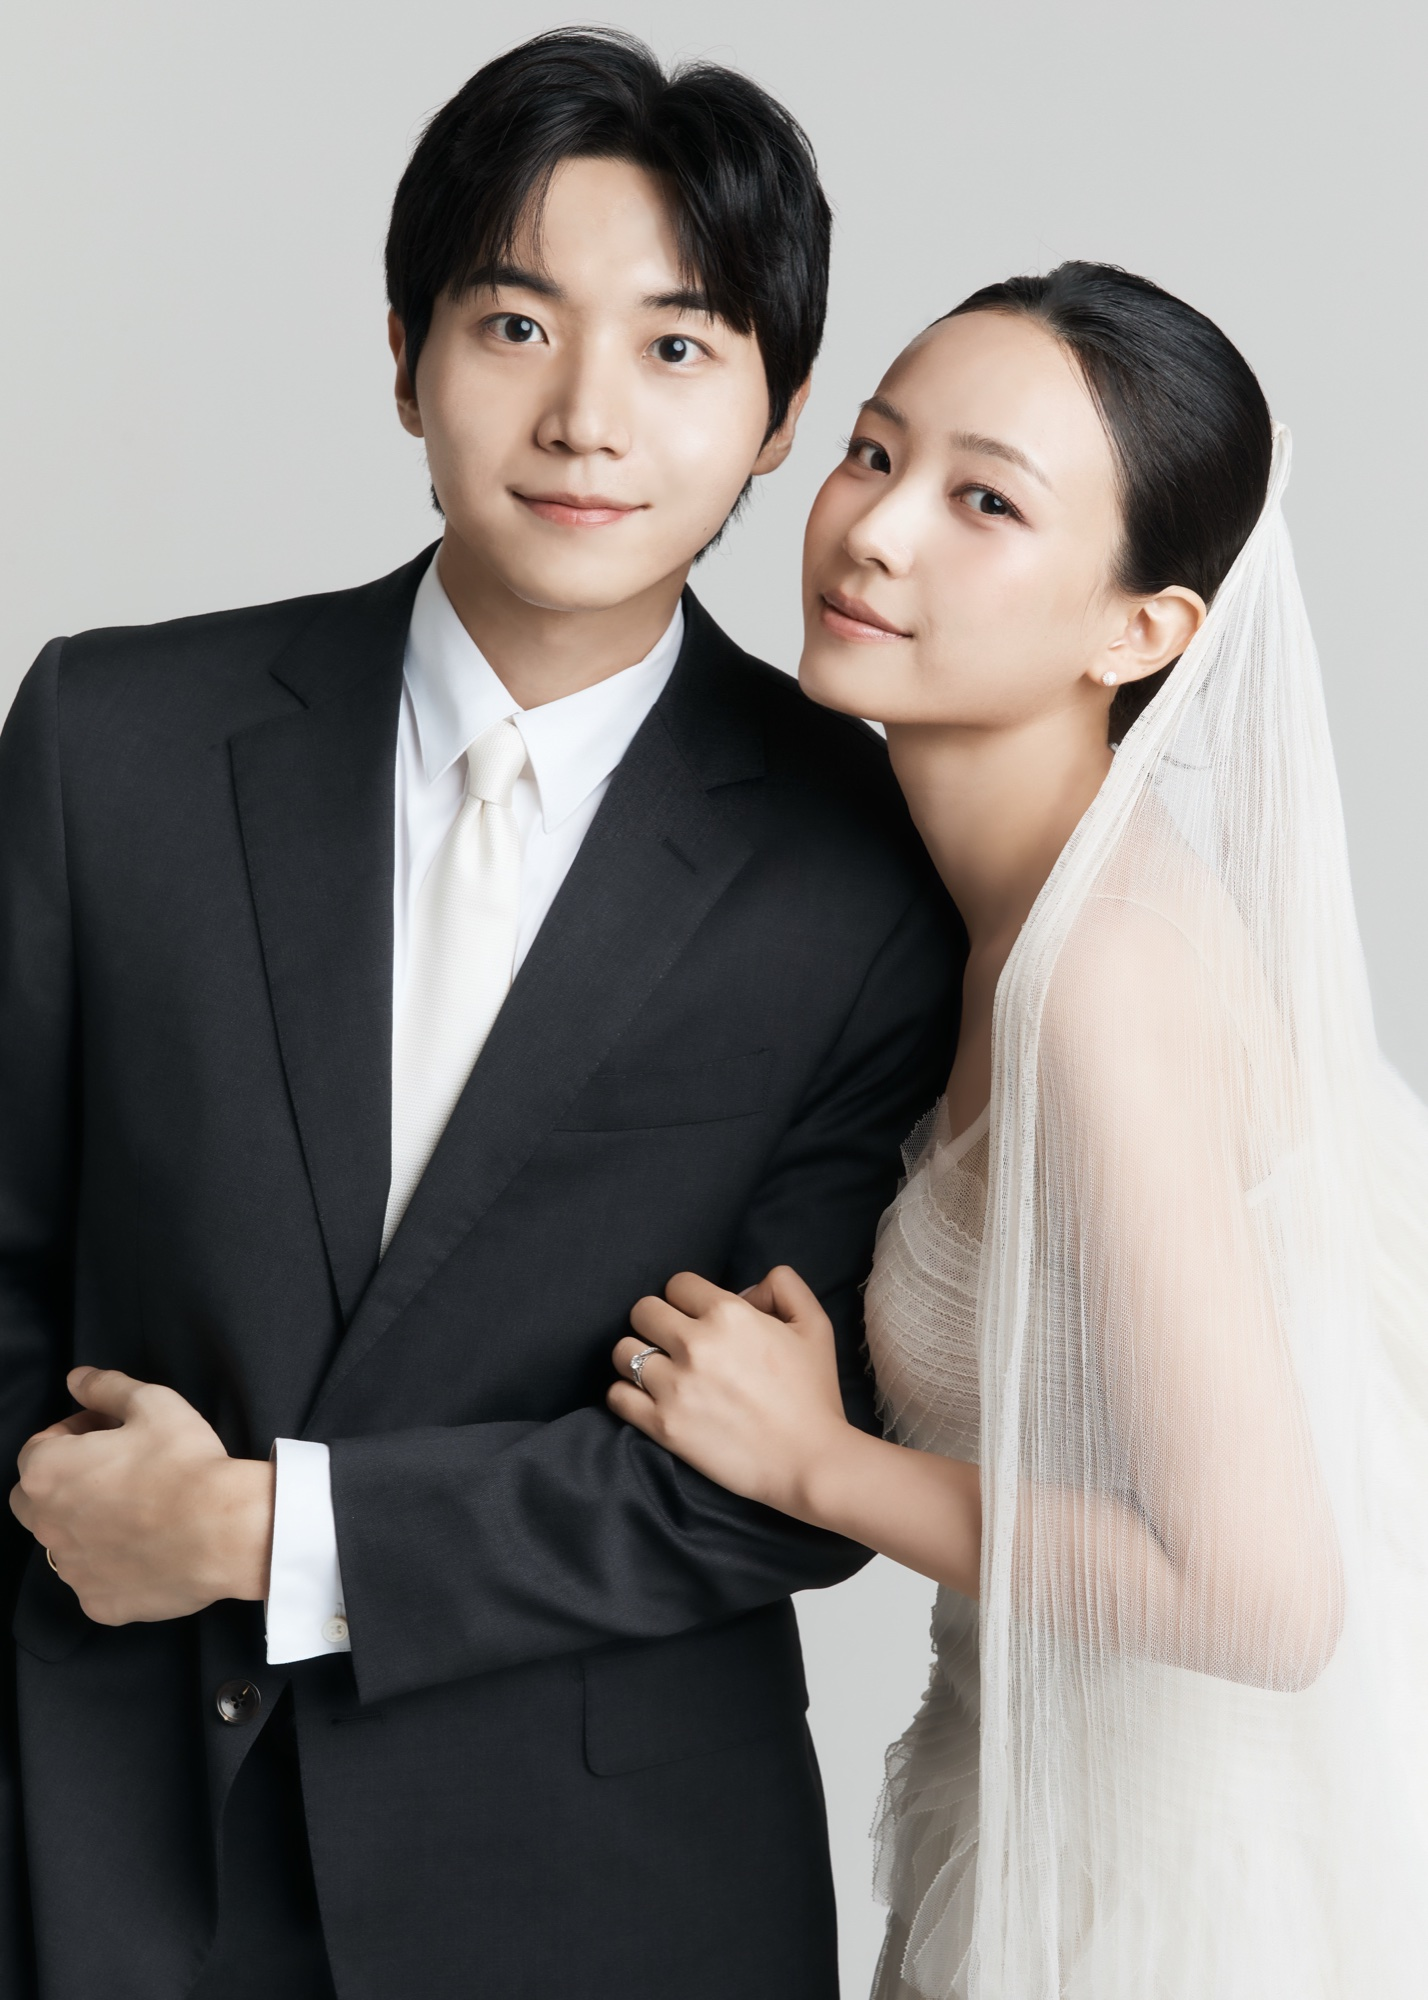
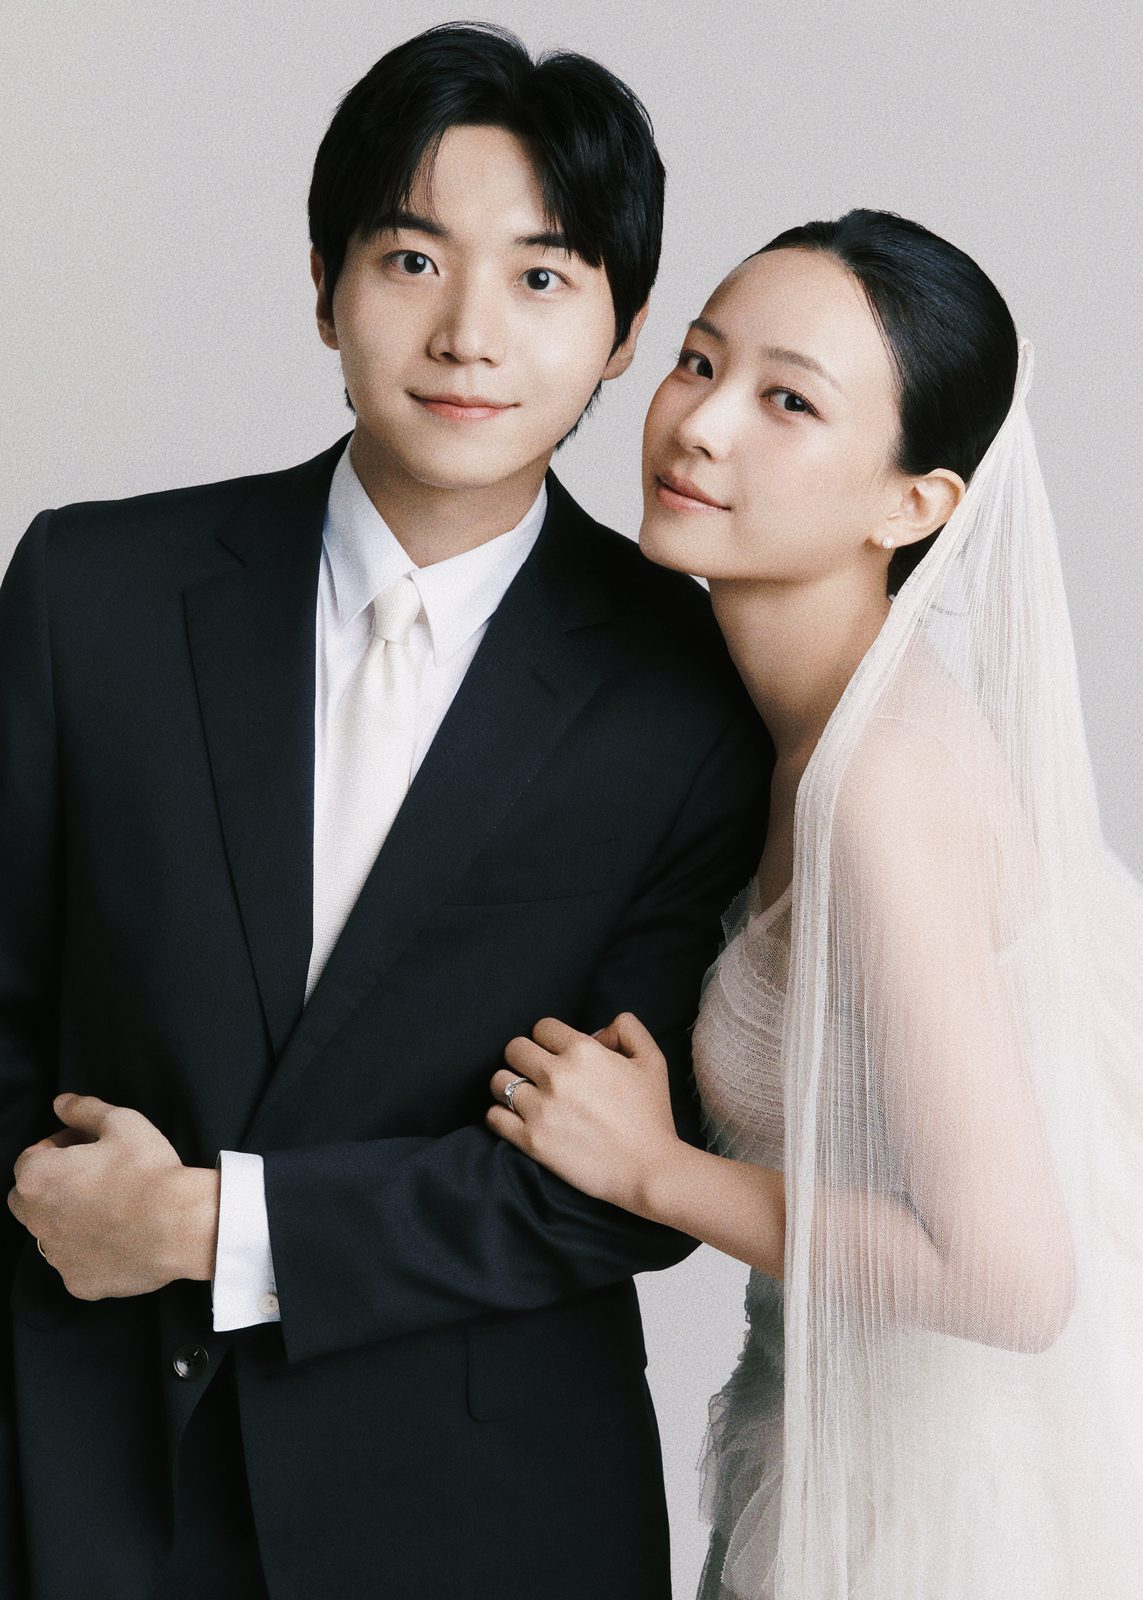
.

diff --git a/index.html b/index.html
@@ -78,11 +78,11 @@
         <p class="v5-save-venue">삼청각 일화당</p>
       </section>
 
-      <section class="v5-mail" aria-hidden="true">
+      <section class="v5-mail">
         <div class="v5-mail-stage">
-          <div class="v5-photostrip">
+          <button class="v5-photostrip" type="button" id="v5-photostrip-open" aria-label="포토스트립 크게 보기">
             <img src="assets/v5-photostrip.png" alt="We're getting Married!!!" width="1024" height="830" decoding="async">
-          </div>
+          </button>
           <img class="v5-envelope" src="assets/v5-envelope.png" alt="" width="752" height="782" decoding="async">
         </div>
       </section>
@@ -104,10 +104,12 @@
       <section class="v5-people" id="v5-family">
         <article class="v5-person">
           <figure class="v5-polaroid">
-            <span class="v5-polaroid-frame">
-              <img class="v5-polaroid-photo" src="assets/v3-family-sangwon.png" alt="상원 어릴 적 사진" width="800" height="1000" decoding="async">
-              <img class="v5-polaroid-border" src="assets/v5-polaroid-frame.png" alt="" width="970" height="687" decoding="async">
-            </span>
+            <button class="v5-polaroid-open" type="button" aria-label="상원 어릴 적 사진 크게 보기">
+              <span class="v5-polaroid-frame">
+                <img class="v5-polaroid-photo" src="assets/v3-family-sangwon.png" alt="상원 어릴 적 사진" width="800" height="1000" decoding="async">
+                <img class="v5-polaroid-border" src="assets/v5-polaroid-frame.png" alt="" width="970" height="687" decoding="async">
+              </span>
+            </button>
           </figure>
           <div class="v5-bubble v5-bubble--img">
             <img class="v5-bubble-img" src="assets/v5-bubble-sangwon.png?v=5" alt="지현호 · 김윤정의 아들 지상원" width="1024" height="272" decoding="async">
@@ -116,10 +118,12 @@
 
         <article class="v5-person">
           <figure class="v5-polaroid">
-            <span class="v5-polaroid-frame">
-              <img class="v5-polaroid-photo" src="assets/v5-family-soyeon.jpg" alt="소연 어릴 적 사진" width="1024" height="768" decoding="async">
-              <img class="v5-polaroid-border" src="assets/v5-polaroid-frame.png" alt="" width="970" height="687" decoding="async">
-            </span>
+            <button class="v5-polaroid-open" type="button" aria-label="소연 어릴 적 사진 크게 보기">
+              <span class="v5-polaroid-frame">
+                <img class="v5-polaroid-photo" src="assets/v5-family-soyeon.jpg" alt="소연 어릴 적 사진" width="1024" height="768" decoding="async">
+                <img class="v5-polaroid-border" src="assets/v5-polaroid-frame.png" alt="" width="970" height="687" decoding="async">
+              </span>
+            </button>
           </figure>
           <div class="v5-bubble v5-bubble--img">
             <img class="v5-bubble-img" src="assets/v5-bubble-soyeon.png?v=4" alt="박수근 · 이혜경의 딸 박소연" width="1024" height="261" decoding="async">
@@ -137,32 +141,29 @@
       <section class="v2-section v2-gallery" id="v5-gallery" aria-label="웨딩 갤러리">
         <h2 class="v2-section-title">Wedding Photos</h2>
         <div class="v3-gallery-track" id="v5-gallery-track" tabindex="0" aria-label="웨딩 갤러리">
-          <button class="v3-gallery-slide" type="button" data-gallery-index="1" aria-label="갤러리 사진 2"><img src="assets/v5-gallery-03.jpg" alt="웨딩 사진 2" decoding="async"></button>
-          <button class="v3-gallery-slide" type="button" data-gallery-index="2" aria-label="갤러리 사진 3"><img src="assets/v5-gallery-04.jpg" alt="웨딩 사진 3" loading="lazy" decoding="async"></button>
-          <button class="v3-gallery-slide" type="button" data-gallery-index="3" aria-label="갤러리 사진 4"><img src="assets/v5-gallery-05.jpg" alt="웨딩 사진 4" loading="lazy" decoding="async"></button>
-          <button class="v3-gallery-slide" type="button" data-gallery-index="4" aria-label="갤러리 사진 5"><img src="assets/v5-gallery-06.jpg" alt="웨딩 사진 5" loading="lazy" decoding="async"></button>
-          <button class="v3-gallery-slide" type="button" data-gallery-index="5" aria-label="갤러리 사진 6"><img src="assets/v5-gallery-07.jpg" alt="웨딩 사진 6" loading="lazy" decoding="async"></button>
-          <button class="v3-gallery-slide" type="button" data-gallery-index="6" aria-label="갤러리 사진 7"><img src="assets/v5-gallery-08.jpg" alt="웨딩 사진 7" loading="lazy" decoding="async"></button>
-          <button class="v3-gallery-slide" type="button" data-gallery-index="7" aria-label="갤러리 사진 8"><img src="assets/v5-gallery-09.jpg" alt="웨딩 사진 8" loading="lazy" decoding="async"></button>
-          <button class="v3-gallery-slide" type="button" data-gallery-index="8" aria-label="갤러리 사진 9"><img src="assets/v5-gallery-10.jpg" alt="웨딩 사진 9" loading="lazy" decoding="async"></button>
-          <button class="v3-gallery-slide" type="button" data-gallery-index="9" aria-label="갤러리 사진 10"><img src="assets/v5-gallery-11.jpg" alt="웨딩 사진 10" loading="lazy" decoding="async"></button>
-          <button class="v3-gallery-slide" type="button" data-gallery-index="10" aria-label="갤러리 사진 11"><img src="assets/v5-gallery-12.jpg" alt="웨딩 사진 11" loading="lazy" decoding="async"></button>
-          <button class="v3-gallery-slide" type="button" data-gallery-index="11" aria-label="갤러리 사진 12"><img src="assets/v5-gallery-13.jpg" alt="웨딩 사진 12" loading="lazy" decoding="async"></button>
-          <button class="v3-gallery-slide" type="button" data-gallery-index="12" aria-label="갤러리 사진 13"><img src="assets/v5-gallery-14.jpg" alt="웨딩 사진 13" loading="lazy" decoding="async"></button>
-          <button class="v3-gallery-slide" type="button" data-gallery-index="13" aria-label="갤러리 사진 14"><img src="assets/v5-gallery-15.jpg" alt="웨딩 사진 14" loading="lazy" decoding="async"></button>
-          <button class="v3-gallery-slide" type="button" data-gallery-index="14" aria-label="갤러리 사진 15"><img src="assets/v5-gallery-16.jpg" alt="웨딩 사진 15" loading="lazy" decoding="async"></button>
-          <button class="v3-gallery-slide" type="button" data-gallery-index="15" aria-label="갤러리 사진 16"><img src="assets/v5-gallery-17.jpg" alt="웨딩 사진 16" loading="lazy" decoding="async"></button>
-          <button class="v3-gallery-slide" type="button" data-gallery-index="16" aria-label="갤러리 사진 17"><img src="assets/v5-gallery-18.jpg" alt="웨딩 사진 17" loading="lazy" decoding="async"></button>
-          <button class="v3-gallery-slide" type="button" data-gallery-index="17" aria-label="갤러리 사진 18"><img src="assets/v5-gallery-19.jpg" alt="웨딩 사진 18" loading="lazy" decoding="async"></button>
-          <button class="v3-gallery-slide" type="button" data-gallery-index="18" aria-label="갤러리 사진 19"><img src="assets/v5-gallery-20.jpg" alt="웨딩 사진 19" loading="lazy" decoding="async"></button>
-          <button class="v3-gallery-slide" type="button" data-gallery-index="19" aria-label="갤러리 사진 20"><img src="assets/v5-gallery-21.jpg" alt="웨딩 사진 20" loading="lazy" decoding="async"></button>
-          <button class="v3-gallery-slide" type="button" data-gallery-index="20" aria-label="갤러리 사진 21"><img src="assets/v5-gallery-22.jpg" alt="웨딩 사진 21" loading="lazy" decoding="async"></button>
-          <button class="v3-gallery-slide" type="button" data-gallery-index="21" aria-label="갤러리 사진 22"><img src="assets/v5-gallery-23.jpg" alt="웨딩 사진 22" loading="lazy" decoding="async"></button>
-          <button class="v3-gallery-slide" type="button" data-gallery-index="22" aria-label="갤러리 사진 23"><img src="assets/v5-gallery-25.jpg" alt="웨딩 사진 23" loading="lazy" decoding="async"></button>
-          <button class="v3-gallery-slide" type="button" data-gallery-index="23" aria-label="갤러리 사진 24"><img src="assets/v5-gallery-26.jpg" alt="웨딩 사진 24" loading="lazy" decoding="async"></button>
-          <button class="v3-gallery-slide" type="button" data-gallery-index="24" aria-label="갤러리 사진 25"><img src="assets/v5-gallery-29.jpg" alt="웨딩 사진 25" loading="lazy" decoding="async"></button>
-          <button class="v3-gallery-slide" type="button" data-gallery-index="25" aria-label="갤러리 사진 26"><img src="assets/v5-gallery-30.jpg" alt="웨딩 사진 26" loading="lazy" decoding="async"></button>
-          <button class="v3-gallery-slide" type="button" data-gallery-index="26" aria-label="갤러리 사진 27"><img src="assets/v5-gallery-31.jpg" alt="웨딩 사진 27" loading="lazy" decoding="async"></button>
+          <button class="v3-gallery-slide" type="button" data-gallery-index="1" aria-label="갤러리 사진 1"><img src="assets/v5-gallery-01.jpg?v=film" alt="웨딩 사진 1" decoding="async"></button>
+          <button class="v3-gallery-slide" type="button" data-gallery-index="2" aria-label="갤러리 사진 2"><img src="assets/v5-gallery-02.jpg?v=film" alt="웨딩 사진 2" loading="lazy" decoding="async"></button>
+          <button class="v3-gallery-slide" type="button" data-gallery-index="3" aria-label="갤러리 사진 3"><img src="assets/v5-gallery-03.jpg?v=film" alt="웨딩 사진 3" loading="lazy" decoding="async"></button>
+          <button class="v3-gallery-slide" type="button" data-gallery-index="4" aria-label="갤러리 사진 4"><img src="assets/v5-gallery-04.jpg?v=film" alt="웨딩 사진 4" loading="lazy" decoding="async"></button>
+          <button class="v3-gallery-slide" type="button" data-gallery-index="5" aria-label="갤러리 사진 5"><img src="assets/v5-gallery-05.jpg?v=film" alt="웨딩 사진 5" loading="lazy" decoding="async"></button>
+          <button class="v3-gallery-slide" type="button" data-gallery-index="6" aria-label="갤러리 사진 6"><img src="assets/v5-gallery-06.jpg?v=film" alt="웨딩 사진 6" loading="lazy" decoding="async"></button>
+          <button class="v3-gallery-slide" type="button" data-gallery-index="7" aria-label="갤러리 사진 7"><img src="assets/v5-gallery-07.jpg?v=film" alt="웨딩 사진 7" loading="lazy" decoding="async"></button>
+          <button class="v3-gallery-slide" type="button" data-gallery-index="8" aria-label="갤러리 사진 8"><img src="assets/v5-gallery-08.jpg?v=film" alt="웨딩 사진 8" loading="lazy" decoding="async"></button>
+          <button class="v3-gallery-slide" type="button" data-gallery-index="9" aria-label="갤러리 사진 9"><img src="assets/v5-gallery-09.jpg?v=film" alt="웨딩 사진 9" loading="lazy" decoding="async"></button>
+          <button class="v3-gallery-slide" type="button" data-gallery-index="10" aria-label="갤러리 사진 10"><img src="assets/v5-gallery-10.jpg?v=film" alt="웨딩 사진 10" loading="lazy" decoding="async"></button>
+          <button class="v3-gallery-slide" type="button" data-gallery-index="11" aria-label="갤러리 사진 11"><img src="assets/v5-gallery-11.jpg?v=film" alt="웨딩 사진 11" loading="lazy" decoding="async"></button>
+          <button class="v3-gallery-slide" type="button" data-gallery-index="12" aria-label="갤러리 사진 12"><img src="assets/v5-gallery-12.jpg?v=film" alt="웨딩 사진 12" loading="lazy" decoding="async"></button>
+          <button class="v3-gallery-slide" type="button" data-gallery-index="13" aria-label="갤러리 사진 13"><img src="assets/v5-gallery-13.jpg?v=film" alt="웨딩 사진 13" loading="lazy" decoding="async"></button>
+          <button class="v3-gallery-slide" type="button" data-gallery-index="14" aria-label="갤러리 사진 14"><img src="assets/v5-gallery-14.jpg?v=film" alt="웨딩 사진 14" loading="lazy" decoding="async"></button>
+          <button class="v3-gallery-slide" type="button" data-gallery-index="15" aria-label="갤러리 사진 15"><img src="assets/v5-gallery-15.jpg?v=film" alt="웨딩 사진 15" loading="lazy" decoding="async"></button>
+          <button class="v3-gallery-slide" type="button" data-gallery-index="16" aria-label="갤러리 사진 16"><img src="assets/v5-gallery-16.jpg?v=film" alt="웨딩 사진 16" loading="lazy" decoding="async"></button>
+          <button class="v3-gallery-slide" type="button" data-gallery-index="17" aria-label="갤러리 사진 17"><img src="assets/v5-gallery-17.jpg?v=film" alt="웨딩 사진 17" loading="lazy" decoding="async"></button>
+          <button class="v3-gallery-slide" type="button" data-gallery-index="18" aria-label="갤러리 사진 18"><img src="assets/v5-gallery-18.jpg?v=film" alt="웨딩 사진 18" loading="lazy" decoding="async"></button>
+          <button class="v3-gallery-slide" type="button" data-gallery-index="19" aria-label="갤러리 사진 19"><img src="assets/v5-gallery-19.jpg?v=film" alt="웨딩 사진 19" loading="lazy" decoding="async"></button>
+          <button class="v3-gallery-slide" type="button" data-gallery-index="20" aria-label="갤러리 사진 20"><img src="assets/v5-gallery-20.jpg?v=film" alt="웨딩 사진 20" loading="lazy" decoding="async"></button>
+          <button class="v3-gallery-slide" type="button" data-gallery-index="21" aria-label="갤러리 사진 21"><img src="assets/v5-gallery-21.jpg?v=film" alt="웨딩 사진 21" loading="lazy" decoding="async"></button>
+          <button class="v3-gallery-slide" type="button" data-gallery-index="22" aria-label="갤러리 사진 22"><img src="assets/v5-gallery-22.jpg?v=film" alt="웨딩 사진 22" loading="lazy" decoding="async"></button>
+          <button class="v3-gallery-slide" type="button" data-gallery-index="23" aria-label="갤러리 사진 23"><img src="assets/v5-gallery-23.jpg?v=film" alt="웨딩 사진 23" loading="lazy" decoding="async"></button>
         </div>
       </section>
 

diff --git a/script.js b/script.js
@@ -754,6 +754,23 @@
         openMap('assets/v2-samcheonggak-yakdo.png', '삼청각 약도');
       });
     }
+    const photostripOpen = id('photostrip-open');
+    if (photostripOpen) {
+      photostripOpen.addEventListener('click', () => {
+        const photo = photostripOpen.querySelector('img');
+        openMap(
+          photo ? photo.getAttribute('src') : 'assets/v5-photostrip.png',
+          (photo && photo.getAttribute('alt')) || '포토스트립'
+        );
+      });
+    }
+    root.querySelectorAll('.v5-polaroid-open').forEach((btn) => {
+      btn.addEventListener('click', () => {
+        const photo = btn.querySelector('.v5-polaroid-photo');
+        if (!photo) return;
+        openMap(photo.getAttribute('src'), photo.getAttribute('alt') || '사진');
+      });
+    });
     if (mapClose) mapClose.addEventListener('click', closeMap);
     if (mapModal) {
       mapModal.addEventListener('click', (event) => {

diff --git a/styles.css b/styles.css
@@ -4363,9 +4363,12 @@ body[data-active-version="4"] .bgm-toggle {
   top: 12%;
   z-index: 1;
   width: 68%;
+  margin: 0;
   padding: 0;
+  border: 0;
   background: transparent;
   box-shadow: 0 10px 24px rgba(0, 0, 0, 0.35);
+  cursor: pointer;
   transform: translateX(-50%) translateY(72%);
   transition: transform 1.7s cubic-bezier(0.22, 1, 0.36, 1);
 }
@@ -4493,6 +4496,16 @@ body[data-active-version="4"] .bgm-toggle {
   }
 }
 
+.v5-polaroid-open {
+  display: block;
+  width: 100%;
+  margin: 0;
+  padding: 0;
+  border: 0;
+  background: transparent;
+  cursor: pointer;
+}
+
 .v5-polaroid-frame {
   display: block;
   position: relative;
@@ -4514,7 +4527,7 @@ body[data-active-version="4"] .bgm-toggle {
 
 .v5-person:nth-child(2) .v5-polaroid-photo {
   object-position: center 64%;
-  transform: scale(1.55);
+  transform: scale(1.72);
   transform-origin: center 58%;
 }
 
